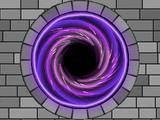
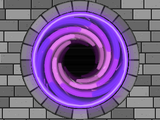
Mighty FX: Added styles to the pool, lamp matrix, portal, segment clock and segment sign drawings

diff --git a/examples/mighty_fx/examples/drawings/portal.py b/examples/mighty_fx/examples/drawings/portal.py
@@ -5,20 +5,26 @@ from picovector import color, image, rect, shape, vec2
 """
 Draw a glowing portal with arms spiralling into a dark opening and specks of light
 falling in. Each arm dims to black before the opening, so it seems to fall away without
-end. STONES = True sets the portal into a stone wall.
+end. SCHEME chooses its colours, violet, ember, ice or emerald, and STONES = True sets it
+into a stone wall.
 
 RIM_WIDTH and RIM_HEIGHT size the portal to a cutout in front of the panel, and by default it is as
 large as fits. Each frame dims the opening a little before drawing, so the motes leave fading streaks.
 
 Drawing: Portal
 Defaults: Rotation = 90, Pixel double = false
+Styles: violet, ember, ice, emerald
+Styles: walled, bare
+Styles: round, oval
 Section: Animated scenes
 """
 
 # Constants for drawing
-STONES = True                       # Whether the portal is set into a stone wall
+SCHEME = "violet"                   # The portal's colours, a name from SCHEMES, unless the entry's style names one
+STONES = True                       # Whether the portal is set into a stone wall, unless the entry's style says bare
 RIM_WIDTH = None                    # Panel pixels across the rim, None for as large as fits
 RIM_HEIGHT = None                   # And down it
+OVAL = False                        # Whether the rim stretches to fill a panel wider than it is tall, unless the entry's style says round
 DIM = 60                            # How much of the last frame dims away over DIM_MS, of 255, more giving shorter streaks
 DIM_MS = 167                        # The time DIM is taken over, a sixth of a second
 DIM_LEAST = 17                      # The faintest dim laid at once, one of the screens' 16 levels
@@ -49,19 +55,42 @@ RIM_SHAKE = 0.04                    # How far in a point on the rim strays each 
 RING_STONES = 22                    # Stones in the ring round the rim
 
 # The screens drive the panel at 12 bit, 16 levels a channel in steps of 17, so the colours sit on those levels.
+# Each scheme is an arm's colours at the rim, part way in, at its brightest and deep in, then the rim's line
+# and its glow, which also falls on the stones nearest it
+SCHEMES = {
+    "violet": ((102, 51, 255), (204, 68, 255), (255, 170, 238), (119, 34, 136), (204, 153, 255), (153, 68, 255)),
+    "ember": ((238, 68, 34), (255, 136, 51), (255, 221, 136), (119, 17, 17), (255, 187, 85), (238, 85, 17)),
+    "ice": ((68, 119, 204), (136, 204, 255), (238, 238, 255), (51, 34, 136), (204, 238, 255), (85, 153, 238)),
+    "emerald": ((0, 153, 85), (0, 204, 119), (238, 255, 221), (17, 85, 17), (170, 255, 34), (0, 204, 119)),
+}
+
+# The entry's style, its choices joined by a dash, such as ember-bare, each a scheme, walled or bare, or round or oval
+for choice in style.split("-") if style else ():
+    if choice in SCHEMES:
+        SCHEME = choice
+    elif choice in ("walled", "bare"):
+        STONES = choice == "walled"
+    elif choice in ("round", "oval"):
+        OVAL = choice == "oval"
+    else:
+        raise ValueError(f"'{choice}' is not one of the styles! Use {', '.join(SCHEMES)}, walled or bare, round or oval")
+
+# Is SCHEME one of them?
+if SCHEME not in SCHEMES:
+    raise ValueError(f"'{SCHEME}' is not one of the schemes! Set SCHEME to {', '.join(SCHEMES)}")
+EDGE, PART_WAY, BRIGHTEST, DEEP, RIM_RGB, GLOW_RGB = SCHEMES[SCHEME]
+
 # From the rim in, an arm's colours dim towards the opening's dark, and a mote's pale to white and go out there
 VOID = (0, 0, 0)                    # The opening's dark, which the arms fall into and each frame dims back to
-ARM_COLOURS = ((1.0, (102, 51, 255)), (0.65, (204, 68, 255)), (0.4, (255, 170, 238)),
-               (0.2, (119, 34, 136)), (0.0, VOID))
-MOTE_COLOURS = ((1.0, (102, 51, 255)), (0.6, (204, 68, 255)), (0.35, (255, 170, 238)),
-                (0.18, (255, 255, 255)), (0.0, VOID))
+ARM_COLOURS = ((1.0, EDGE), (0.65, PART_WAY), (0.4, BRIGHTEST), (0.2, DEEP), (0.0, VOID))
+MOTE_COLOURS = ((1.0, EDGE), (0.6, PART_WAY), (0.35, BRIGHTEST), (0.18, (255, 255, 255)), (0.0, VOID))
 GLOW_ALPHA = 70                     # How strong an arm's glow is, of 255
-RIM_LINE = color.rgb(204, 153, 255)
-RIM_GLOW = color.rgb(153, 68, 255).with_alpha(90)
+RIM_LINE = color.rgb(*RIM_RGB)
+RIM_GLOW = color.rgb(*GLOW_RGB).with_alpha(90)
 STONE_SHADES = ((102, 102, 102), (119, 119, 119), (136, 136, 136), (153, 153, 153))
 MORTAR = color.rgb(34, 34, 34)
 BACKGROUND = color.black            # Behind the portal where there is no stone wall
-SPILL = (153, 68, 255)              # The portal's light falling on the stones nearest it
+SPILL = GLOW_RGB                    # The portal's light falling on the stones nearest it
 
 # The canvas is the size of the screen, as the effects file turns it
 WIDTH, HEIGHT = canvas.width, canvas.height
@@ -72,6 +101,8 @@ MIDDLE_X, MIDDLE_Y = WIDTH / 2, HEIGHT / 2
 # panel's edge without them, so it is the same size whichever way the panel is turned
 MARGIN = BAND + 2 if STONES else 2
 DEFAULT_SIZE = min(WIDTH, HEIGHT) - 2 * MARGIN
+if OVAL:
+    RIM_WIDTH, RIM_HEIGHT = WIDTH - 2 * MARGIN, HEIGHT - 2 * MARGIN
 OUTER = (RIM_HEIGHT or DEFAULT_SIZE) / 2
 INNER = OUTER * OPENING
 SQUASH = (RIM_WIDTH or DEFAULT_SIZE) / 2 / OUTER    # The rim's width against its height

diff --git a/examples/mighty_fx/examples/drawings/segment_clock.py b/examples/mighty_fx/examples/drawings/segment_clock.py
@@ -9,10 +9,13 @@ how an unlit segment still shows faintly through the filter. A frame is that bac
 lit segments over it.
 
 The window is set into a brushed gunmetal case, printed with what each pair of digits shows, as an
-instrument panel would be. METAL_CASE = False leaves it bare on black.
+instrument panel would be. COLOUR chooses red, amber or green, and METAL_CASE = False leaves it
+bare on black.
 
 Drawing: Segment clock
 Defaults: Rotation = 90
+Styles: red, amber, green
+Styles: cased, bare
 Section: Retro displays
 """
 
@@ -32,9 +35,22 @@ COLON_SPACING = 0.35                # And added either side of a colon
 MARGIN = 8                          # Panel pixels around the window, and between it and the digits
 CORNER = 4                          # How far the window's corners are rounded
 
-# The colour a lit segment glows, which the filter and the unlit segments take theirs from.
-# (255, 153, 0) is an amber display and (51, 255, 68) a green one
-LED = (255, 34, 17)
+# Each colour a display comes in, the colour a lit segment glows, which the filter and the unlit
+# segments take theirs from, and the plaque a label is printed on to suit it
+LEDS = {"red": ((255, 34, 17), (153, 34, 34)), "amber": ((255, 153, 0), (153, 85, 0)),
+        "green": ((51, 255, 68), (17, 119, 34))}
+COLOUR = "red"                      # The display's colour, a name from LEDS, unless the entry's style names one
+METAL_CASE = True                   # Whether the window is set into a brushed metal case, unless the entry's style says bare
+
+# The entry's style, its choices joined by a dash, such as amber-bare, each a colour or cased or bare
+for choice in style.split("-") if style else ():
+    if choice in LEDS:
+        COLOUR = choice
+    elif choice in ("cased", "bare"):
+        METAL_CASE = choice == "cased"
+    else:
+        raise ValueError(f"'{choice}' is not one of the styles! Use {', '.join(LEDS)}, cased or bare")
+LED, PLAQUE_RGB = LEDS[COLOUR]
 
 
 def dimmed(fraction):
@@ -55,7 +71,6 @@ CASE = color.black
 ANTIALIAS = image.X4                # Every bar is slanted, so its edges want smoothing
 
 # The metal case
-METAL_CASE = True                   # Whether the window is set into a brushed metal case, or stands bare on black
 METAL = color.rgb(85, 85, 102)      # The case, a gunmetal brushed metal
 BRIGHTER = color.rgb(136, 136, 153).with_alpha(60)  # A brush mark catching the light
 DARKER = color.rgb(34, 34, 51).with_alpha(60)       # And one in shadow
@@ -66,7 +81,7 @@ LABELS = ("HOUR", "MIN", "SEC")     # Printed over each pair of digits
 CAPTION = "PRESENT TIME"            # And under the window
 LABEL_FONT = "/rom/fonts/Oswald.af"  # A condensed face, so a label sits over its pair of digits
 LABEL_SIZE = 22                     # The lettering's em height, in panel pixels
-PLAQUE = color.rgb(153, 34, 34)     # The red a label is printed on
+PLAQUE = color.rgb(*PLAQUE_RGB)     # What a label is printed on
 CAPTION_PLATE = color.black         # And the plate the caption is printed on
 LETTERING = color.rgb(238, 238, 221)
 PLATE_PAD = 4                       # Panel pixels around the lettering on a plate

diff --git a/examples/mighty_fx/examples/drawings/lamp_matrix.py b/examples/mighty_fx/examples/drawings/lamp_matrix.py
@@ -12,11 +12,12 @@ from then on a frame only copies those drawings into place.
 
 Drawing: Lamp matrix
 Defaults: Rotation = 90, Pixel double = false
+Styles: tungsten, led
 Section: Retro displays
 """
 
 # Constants for drawing
-LAMPS = "tungsten"                                  # "tungsten" for filament lamps, or "led" to switch instantly in colour
+LAMPS = style or "tungsten"                         # The entry's style where it sets one, "tungsten" for filament lamps, or "led" to switch instantly in colour
 LED_COLOURS = ((255, 34, 17), (255, 136, 0), (51, 255, 68),
                (34, 85, 255), (204, 68, 255))       # The colours an LED lamp can show, any lamp any of them
 CUE_SECONDS = 6                                     # How long each lighting cue runs
@@ -247,7 +248,7 @@ def checker(step):
 CUES = (chase, sweep, wave, sparkle, checker)
 
 if LAMPS not in ("tungsten", "led"):
-    raise ValueError(f'LAMPS is {LAMPS!r}. Set it to "tungsten" or "led"')
+    raise ValueError(f'LAMPS is {LAMPS!r}. Set it or style= to "tungsten" or "led"')
 TUNGSTEN = LAMPS == "tungsten"
 
 # The screen stays dark until its first frame, so every stage of each lamp is drawn first

diff --git a/examples/mighty_fx/examples/drawings/segment_sign.py b/examples/mighty_fx/examples/drawings/segment_sign.py
@@ -12,6 +12,7 @@ METAL_CASE = False leaves the windows bare on black.
 
 Drawing: Segment sign
 Defaults: Rotation = 90
+Styles: cased, bare
 Section: Retro displays
 """
 
@@ -42,7 +43,9 @@ SPACING = 0.32                          # Between one character and the next, th
 ANTIALIAS = image.X4                    # A diagonal is all edge
 
 # The case
-METAL_CASE = True                       # Whether the windows are set into a brushed metal case, or stand bare on black
+METAL_CASE = style != "bare"            # Whether the windows are set into a brushed metal case, or stand bare on black where the entry's style says bare
+if style not in (None, "cased", "bare"):
+    raise ValueError(f"'{style}' is not one of the styles! Use cased or bare")
 BORDER = 8                              # Panel pixels between the panel's edge and the windows
 WINDOW_GAP = 10                         # Between one window and the next
 WINDOW_PAD = 4                          # Between a window's edge and its characters

diff --git a/examples/mighty_fx/examples/drawings/pool.py b/examples/mighty_fx/examples/drawings/pool.py
@@ -12,11 +12,12 @@ little, so the ripples spread, cross and reflect from the walls, as in Hugo Elia
 
 Drawing: Pool
 Defaults: Rotation = 90, Pixel double = true
+Styles: modern, roman
 Section: Animated scenes
 """
 
 # Constants for drawing
-STYLE = "modern"                                    # The floor, "modern" blue mosaic or "roman" cream stones round an octagon
+STYLE = style or "modern"                           # The floor, the entry's style where it sets one, "modern" blue mosaic or "roman" cream stones round an octagon
 STEPS = 2                                          # Ripple steps a frame, more for faster ripples
 DROPS = 2                                           # Drops falling on the water each step
 DROP_DEPTH = 30                                     # How deep a drop dents the water, its middle seventeen times this
